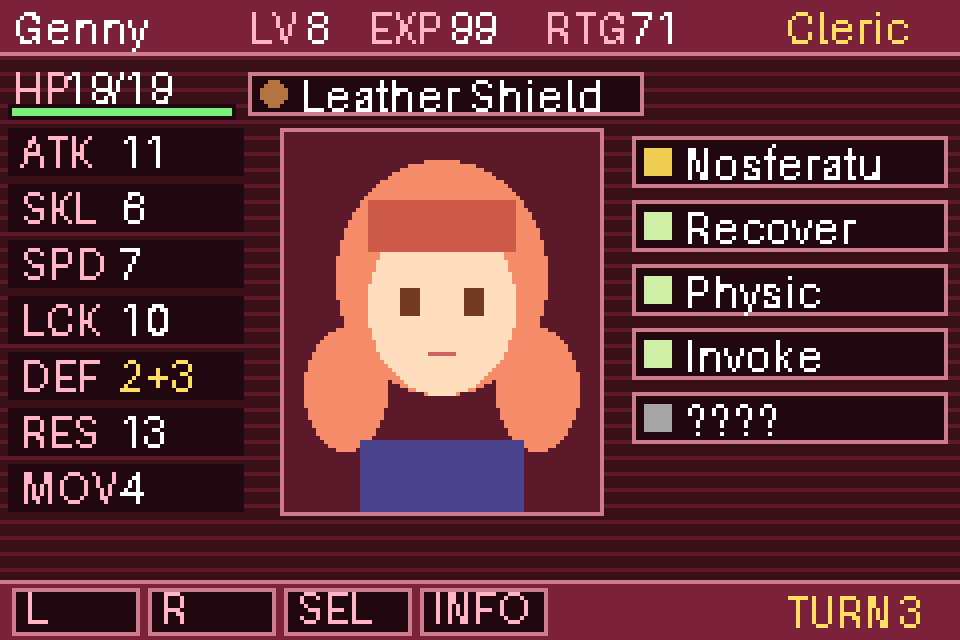
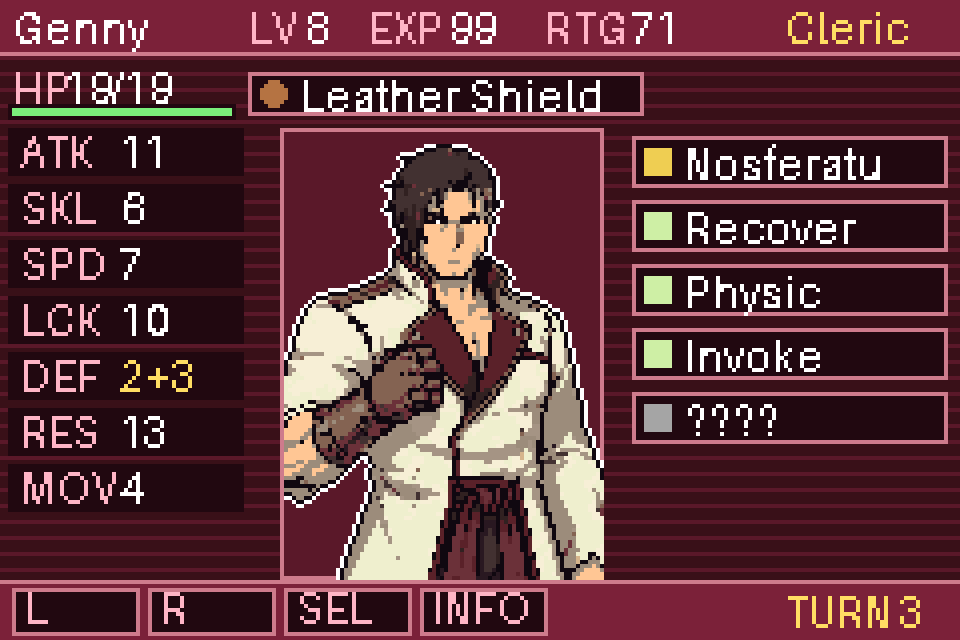
Usar el arte del usuario como retrato en la pantalla GBA
Claude-Session: https://claude.ai/code/session_01C4QAM7MwvCQVjJLG12SBSt

Changed region(s): [[0.2812, 0.2188, 0.6562, 0.9062]]

diff --git a/gba_status/generar.py b/gba_status/generar.py
@@ -30,19 +30,18 @@ t(196, 1, "Cleric", HL)
 t(3, 16, "HP", LBL); t(16, 16, "19/19")
 d.rectangle([2, 26, 58, 29], fill=DARK); d.rectangle([3, 27, 57, 28], fill=c(120, 232, 120))
 
-# retrato simplificado (placeholder pixel)
+# retrato: arte del usuario (retrato.png), sin fondo y cuantizado a RGB555
 px, py = 70, 32
-d.rectangle([px, py, px + 80, py + 96], fill=BG2, outline=FR)
-d.ellipse([px + 14, py + 8, px + 66, py + 66], fill=HAIR)
-d.ellipse([px + 22, py + 22, px + 58, py + 66], fill=SKIN)
-d.rectangle([px + 22, py + 18, px + 58, py + 30], fill=HAIR2)
-d.rectangle([px + 30, py + 40, px + 34, py + 46], fill=EYE)
-d.rectangle([px + 46, py + 40, px + 50, py + 46], fill=EYE)
-d.line([(px + 37, py + 56), (px + 43, py + 56)], fill=c(200, 96, 96))
-d.ellipse([px + 6, py + 50, px + 26, py + 80], fill=HAIR)
-d.ellipse([px + 54, py + 50, px + 74, py + 80], fill=HAIR)
-d.rectangle([px + 20, py + 78, px + 60, py + 95], fill=c(72, 64, 136))
-
+d.rectangle([px, py, px + 80, py + 112], fill=BG2, outline=FR)
+art = Image.open("retrato.png").convert("RGB").crop((0, 0, 80, 112))
+bgc = art.getpixel((0, 0))
+mask = Image.new("L", art.size, 255)
+for y in range(art.height):
+    for x in range(art.width):
+        p = art.getpixel((x, y))
+        if sum(abs(p[i] - bgc[i]) for i in range(3)) < 40: mask.putpixel((x, y), 0)
+        art.putpixel((x, y), c(*p))
+img.paste(art, (px + 1, py + 1), mask)
 # objeto equipado
 d.rectangle([62, 18, 160, 28], fill=DARK, outline=FR)
 d.ellipse([65, 20, 71, 26], fill=c(176, 112, 64)); t(75, 18, "Leather Shield")
